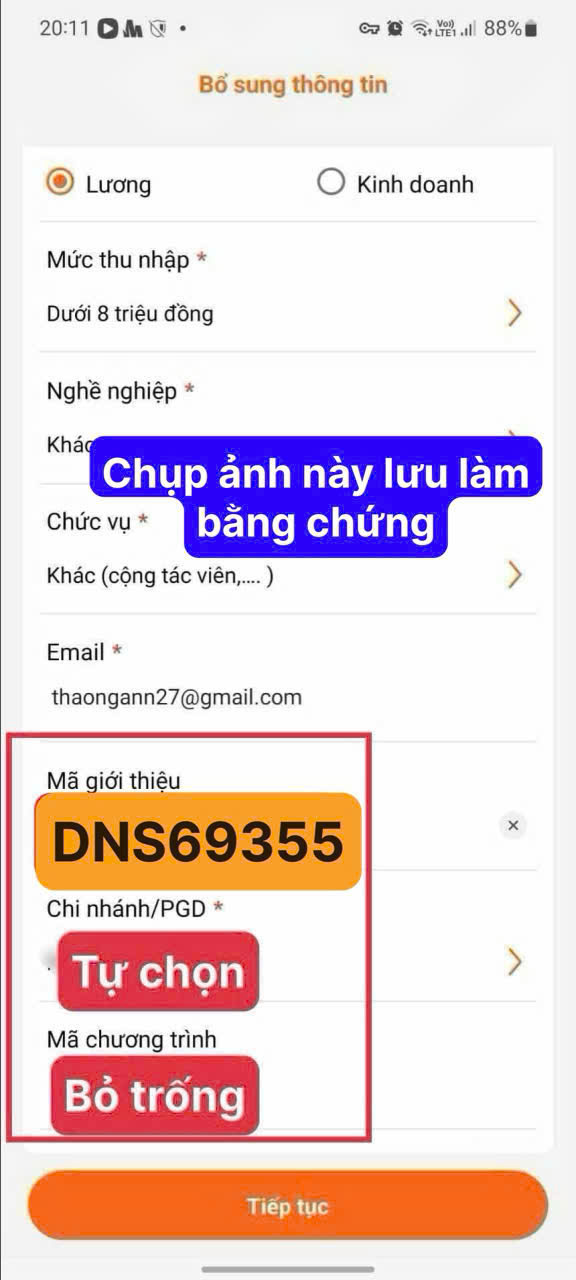
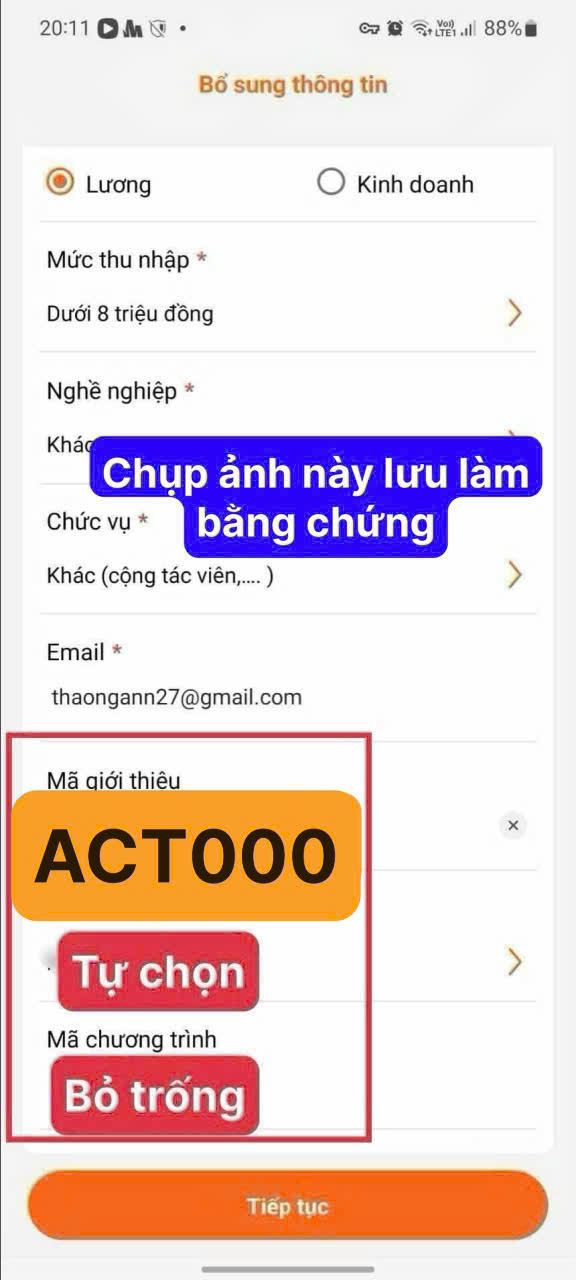
Updates

diff --git a/index.html b/index.html
@@ -26,8 +26,8 @@
       }
       * { font-style: normal !important; } /* Ép chữ thẳng đứng */
     </style>
-    <script type="module" crossorigin src="/assets/index-BiipAPf8.js"></script>
-    <link rel="stylesheet" crossorigin href="/assets/index-BDuRTmgz.css">
+    <script type="module" crossorigin src="/assets/index-CHEdxGlh.js"></script>
+    <link rel="stylesheet" crossorigin href="/assets/index-C6-9CrdK.css">
   </head>
   <body>
     <div id="app"></div>